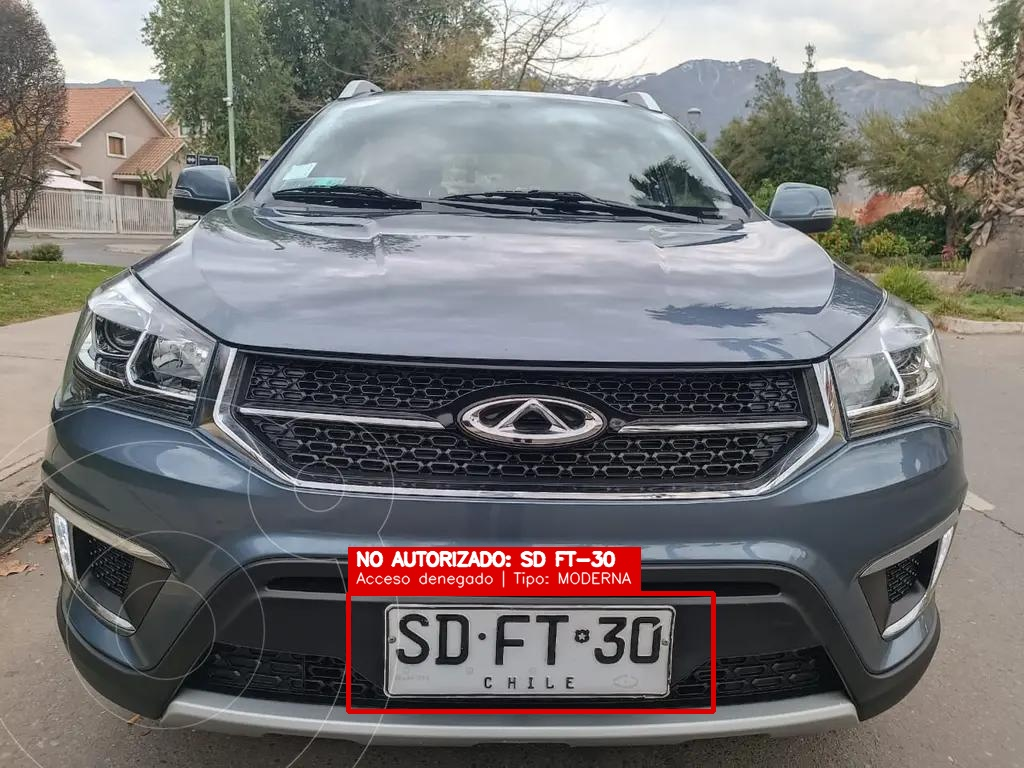
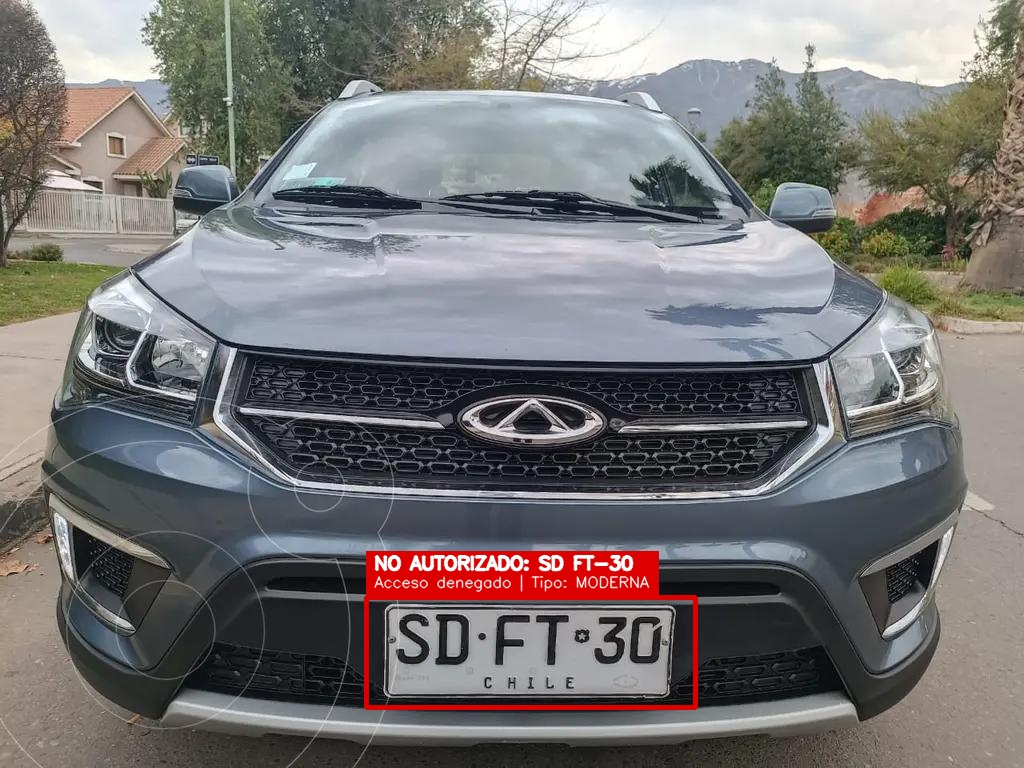
varias mejoras de deteccion

Changed region(s): [[0.3125, 0.6875, 0.7188, 0.9375]]

diff --git a/main.py b/main.py
@@ -40,33 +40,57 @@ def extraer_y_validar_patente_chilena(texto: str) -> Tuple[str, str, str, bool]:
     raw = re.sub(r"[^A-Z0-9]", "", texto.upper().strip())
     raw = raw.replace("CHILE", "").replace("WILE", "").replace("CHLE", "")
 
-    mapa_num_a_letra = {"0": "O", "1": "I", "2": "Z", "5": "S", "8": "B"}
+    mapa_num_a_letra = {"0": "O", "1": "I", "2": "Z", "3": "B", "5": "S", "6": "G", "8": "B"}
     mapa_letra_a_num = {
-        "O": "0", "D": "0", "Q": "0", "I": "1", "L": "1", "T": "1",
-        "Z": "2", "S": "5", "B": "8"
+        "O": "0", "D": "0", "Q": "0", "C": "0",
+        "I": "1", "L": "1", "T": "1",
+        "Z": "2", "S": "5", "B": "8", "G": "6"
     }
 
-    candidatos = []
+    candidatos = []          # (texto, es_original) donde es_original=True si viene del raw sin expansion
     if len(raw) == 6:
-        candidatos.append(raw)
+        candidatos.append((raw, True))
     elif len(raw) == 7:
         # Remache central entre letras y numeros en patente moderna
         if raw[4] in ("0", "O", "Q", "D"):
-            candidatos.append(raw[:4] + raw[5:])
+            candidatos.append((raw[:4] + raw[5:], True))
         # Remache central en patente antigua
         if raw[2] in ("0", "O", "Q", "D"):
-            candidatos.append(raw[:2] + raw[3:])
-        candidatos.append(raw[:6])
-        candidatos.append(raw[1:])
+            candidatos.append((raw[:2] + raw[3:], True))
+        candidatos.append((raw[:6], True))
+        candidatos.append((raw[1:], True))
     elif len(raw) > 7:
         # Extraer posibles subsecuencias de 6 caracteres
         for i in range(len(raw) - 5):
-            candidatos.append(raw[i:i + 6])
+            candidatos.append((raw[i:i + 6], True))
     else:
         return raw, raw, "", False
 
+    # Expandir candidatos con confusiones visuales de alta ambiguedad (W/H/M, V/U, etc.)
+    # Esto genera variantes adicionales para letras que el OCR confunde con alta frecuencia.
+    # Estos candidatos tienen menor prioridad que los derivados directamente del raw.
+    CONFUSIONES_LETRAS = {
+        "H": ["W", "M"],
+        "W": ["H", "M"],
+        "M": ["W", "H"],
+        "V": ["U", "W"],
+        "U": ["V", "O"],
+        "N": ["H", "M"],
+    }
+
+    vistos = {c for c, _ in candidatos}
+    for cand, _ in list(candidatos):
+        for pos in range(min(4, len(cand))):  # Solo posiciones de letras (Moderna: 0-3)
+            c = cand[pos]
+            if c in CONFUSIONES_LETRAS:
+                for sustitucion in CONFUSIONES_LETRAS[c]:
+                    nueva = cand[:pos] + sustitucion + cand[pos + 1:]
+                    if nueva not in vistos:
+                        vistos.add(nueva)
+                        candidatos.append((nueva, False))  # es_original=False
+
     mejores = []
-    for cand in candidatos:
+    for cand, es_original in candidatos:
         # 1. Probar hipotesis Formato Moderno (4 letras + 2 numeros)
         chars_mod = list(cand)
         score_mod = 0
@@ -83,7 +107,8 @@ def extraer_y_validar_patente_chilena(texto: str) -> Tuple[str, str, str, bool]:
         cand_mod = "".join(chars_mod)
         if re.match(r"^[A-Z]{4}[0-9]{2}$", cand_mod):
             formato_mod = f"{cand_mod[:2]} {cand_mod[2:4]}-{cand_mod[4:]}"
-            mejores.append((score_mod, cand_mod, formato_mod, "MODERNA"))
+            # es_original como desempate: candidatos originales tienen prioridad sobre expandidos
+            mejores.append((score_mod, int(es_original), cand_mod, formato_mod, "MODERNA"))
 
         # 2. Probar hipotesis Formato Antiguo (2 letras + 4 numeros)
         chars_ant = list(cand)
@@ -101,12 +126,23 @@ def extraer_y_validar_patente_chilena(texto: str) -> Tuple[str, str, str, bool]:
         cand_ant = "".join(chars_ant)
         if re.match(r"^[A-Z]{2}[0-9]{4}$", cand_ant):
             formato_ant = f"{cand_ant[:2]} {cand_ant[2:4]}-{cand_ant[4:]}"
-            mejores.append((score_ant, cand_ant, formato_ant, "ANTIGUA"))
+            mejores.append((score_ant, int(es_original), cand_ant, formato_ant, "ANTIGUA"))
 
     if mejores:
-        # Seleccionar el candidato con mayor coincidencia nativa
-        mejores.sort(key=lambda x: x[0], reverse=True)
-        _, limpia, formato, tipo = mejores[0]
+        # Seleccionar por: (1) mayor score nativo, (2) si coincide con el CSV de autorizados,
+        # (3) si es candidato original (no expandido por confusiones).
+        # Esto permite que una confusion OCR (ej: H leido en vez de W) sea corregida
+        # cuando la patente con W esta registrada en el CSV.
+        from registro import cargar_registro
+        registro_csv = cargar_registro()
+
+        def _clave_seleccion(item):
+            score, es_orig, limpia, _, _ = item
+            en_registro = 1 if limpia in registro_csv else 0
+            return (score, en_registro, es_orig)
+
+        mejores.sort(key=_clave_seleccion, reverse=True)
+        _, _, limpia, formato, tipo = mejores[0]
         return limpia, formato, tipo, True
 
     formato_fallback = f"{raw[:2]} {raw[2:4]}-{raw[4:]}" if len(raw) == 6 else raw
@@ -124,9 +160,22 @@ def registrar_evento_acceso(
 ) -> None:
     """
     Guarda un registro de cada vehiculo detectado en un archivo CSV de auditoria.
+    Evita duplicar filas con la misma combinacion (Archivo, Patente_Detectada).
     """
     CARPETA_SALIDAS.mkdir(parents=True, exist_ok=True)
     existe = RUTA_LOG_ACCESOS.is_file()
+
+    # Prevenir duplicados: si ya existe una fila con el mismo archivo y patente, no registrar
+    if existe:
+        try:
+            with open(RUTA_LOG_ACCESOS, mode="r", encoding="utf-8-sig") as f:
+                lector_csv = csv.DictReader(f)
+                for fila in lector_csv:
+                    if (fila.get("Archivo", "") == archivo_origen and
+                            fila.get("Patente_Detectada", "") == patente_detectada):
+                        return  # Entrada duplicada, no registrar
+        except Exception:
+            pass  # Si hay error al leer, registrar igualmente para no perder datos
 
     ahora = datetime.now()
     fila = {
@@ -183,9 +232,18 @@ def filtrar_y_unificar_cajas(
         if w < 35 or h < 15:
             continue
 
+        # Descartar recortes muy pequeños en terminos de area absoluta (falsos positivos lejanos)
+        if w * h < 1200:
+            continue
+
         aspect = w / float(max(h, 1))
         # Las patentes chilenas rectangulares tienen proporcion entre 1.3 y 5.5
         if aspect < 1.3 or aspect > 5.5:
+            continue
+
+        # Descartar recortes que son demasiado pequenos respecto a la imagen completa
+        area_img = ancho_img * alto_img
+        if area_img > 0 and (w * h) / area_img < 0.0005:
             continue
 
         cajas_filtradas.append(([x1, y1, x2, y2], conf_val))
@@ -338,8 +396,8 @@ def procesar_cuadro(
         bh = y2 - y1
 
         # Agregar margen para capturar caracteres cercanos a los bordes
-        pad_x = int(bw * 0.12)
-        pad_y = int(bh * 0.08)
+        pad_x = int(bw * 0.06)
+        pad_y = int(bh * 0.04)
         px1 = max(0, x1 - pad_x)
         px2 = min(ancho_img, x2 + pad_x)
         py1 = max(0, y1 - pad_y)

diff --git a/evaluar.py b/evaluar.py
@@ -1,28 +1,80 @@
-# Evalua el modelo entrenado con las imagenes de prueba y guarda sus resultados
+# Evalua la precision del reconocimiento de patentes sobre imagenes de prueba conocidas.
+#
+# Uso:  .\.venv\Scripts\python.exe evaluar.py
+#
+# Compara la patente detectada por el pipeline completo (YOLO + OCR + correccion)
+# contra la patente real de cada imagen y calcula precision, aciertos y errores.
 
 from pathlib import Path
 from ultralytics import YOLO
 
-def main():
-    carpeta = Path(__file__).resolve().parent
+import main
 
-    ruta_modelo = (
-        carpeta / "modelos" / "best.pt"
-    )
+# ---------------------------------------------------------------------------
+# Verdad de campo (ground truth) para cada imagen de prueba.
+# Formato: nombre_archivo -> patente_limpia_esperada (sin espacios ni guion)
+# ---------------------------------------------------------------------------
+GROUND_TRUTH = {
+    "auto3.jpg":    "FDPZ97",   # FD PZ-97  Moderna
+    "auto7.jpg":    "SDFT30",   # SD FT-30  Moderna
+    "auto8.jpg":    "BBBB10",   # BB BB-10  Moderna
+    "auto9.jpg":    "HSDW28",   # HS DW-28  Moderna
+    "autoazul.png": "JJVF14",   # JJ VF-14  Moderna
+}
 
-    modelo = YOLO(str(ruta_modelo))
+CARPETA_PRUEBAS = Path(__file__).resolve().parent / "Registro de vehiculos"
+RUTA_MODELO    = Path(__file__).resolve().parent / "modelos" / "best.pt"
 
-    modelo.val(
-        data=str(carpeta / "dataset" / "data.yaml"),
-        split="test",
-        imgsz=640,
-        batch=4,
-        device="cpu",
-        workers=0,
-        plots=True,
-        project=str(carpeta / "runs"),
-        name="evaluacion_test"
-    )
+
+def evaluar():
+    if not RUTA_MODELO.is_file():
+        print(f"Error: no se encontro el modelo en {RUTA_MODELO}")
+        return
+
+    modelo = YOLO(str(RUTA_MODELO))
+
+    print("=" * 65)
+    print("  EVALUACION DE PRECISION - RECONOCIMIENTO DE PATENTES")
+    print("=" * 65)
+    print(f"{'Archivo':<18} {'Esperada':<10} {'Detectada':<10} {'Resultado'}")
+    print("-" * 65)
+
+    aciertos = 0
+    total    = len(GROUND_TRUTH)
+
+    for nombre, esperada in GROUND_TRUTH.items():
+        ruta = CARPETA_PRUEBAS / nombre
+
+        if not ruta.is_file():
+            print(f"  {nombre:<16} {esperada:<10} {'---':<10} ARCHIVO NO ENCONTRADO")
+            total -= 1
+            continue
+
+        _, vehiculos = main.procesar_archivo_foto(ruta, modelo)
+
+        if vehiculos:
+            detectada = vehiculos[0]["patente_limpia"]
+        else:
+            detectada = "NINGUNA"
+
+        ok = detectada == esperada
+        if ok:
+            aciertos += 1
+            marca = "✓"
+        else:
+            marca = "✗"
+
+        print(f"  {nombre:<16} {esperada:<10} {detectada:<10} {marca}")
+
+    print("-" * 65)
+    if total > 0:
+        precision = aciertos / total * 100
+        print(f"\n  Aciertos : {aciertos}/{total}")
+        print(f"  Precision: {precision:.1f}%")
+    else:
+        print("  No habia imagenes de prueba disponibles.")
+    print("=" * 65)
+
 
 if __name__ == "__main__":
-    main()
+    evaluar()

diff --git a/lector.py b/lector.py
@@ -91,7 +91,13 @@ def generar_variantes_ocr(imagen):
         11
     )
 
-    return [mejorada, otsu, otsu_invertida, adaptativa]
+    # Variante 5: imagen CLAHE con realce de nitidez (unsharp mask)
+    # Ayuda a distinguir caracteres con trazos finos como W vs H
+    import numpy as np
+    suavizado_gs = cv2.GaussianBlur(mejorada, (0, 0), 2.0)
+    nitida = cv2.addWeighted(mejorada, 1.8, suavizado_gs, -0.8, 0)
+
+    return [mejorada, otsu, otsu_invertida, adaptativa, nitida]
 
 
 PALABRAS_RUIDO = {"CHILE", "WILE", "CHLE", "CHI", "ILE", "CHIL", "HILE"}
@@ -214,10 +220,32 @@ def leer_patente(imagen):
         apoyo = min(len(confs) - 1, 3) * 0.05
 
         puntaje_final = conf_base + apoyo
+
+        # --- Bonificacion basada en validez de formato ---
+        # Verificar si el texto (o derivado quitando remache) forma una patente valida
+        def _es_formato_valido_ocr(t):
+            import re as _re
+            if len(t) == 6:
+                return bool(_re.match(r'^[A-Z]{4}[0-9]{2}$', t) or _re.match(r'^[A-Z]{2}[0-9]{4}$', t))
+            return False
+
         if len(texto) == 6:
-            puntaje_final += 0.25
-        elif len(texto) == 7 and (texto[4] in ("0", "O") or texto[2] in ("0", "O")):
-            puntaje_final += 0.18
+            if _es_formato_valido_ocr(texto):
+                # Formato valido sin correccion: bonificacion maxima
+                puntaje_final += 0.30
+            else:
+                # 6 chars pero formato incorrecto: bonificacion reducida
+                puntaje_final += 0.08
+        elif len(texto) == 7:
+            # Verificar si quitando posible remache se obtiene formato valido
+            candidato_mod = texto[:4] + texto[5:] if texto[4] in ("0", "O", "Q", "D") else None
+            candidato_ant = texto[:2] + texto[3:] if texto[2] in ("0", "O", "Q", "D") else None
+            if (candidato_mod and _es_formato_valido_ocr(candidato_mod)) or \
+               (candidato_ant and _es_formato_valido_ocr(candidato_ant)):
+                # 7 chars con remache que produce formato valido
+                puntaje_final += 0.26
+            else:
+                puntaje_final += 0.05
         elif len(texto) < 6:
             # Penalizar lecturas truncadas/incompletas
             puntaje_final -= 0.30
